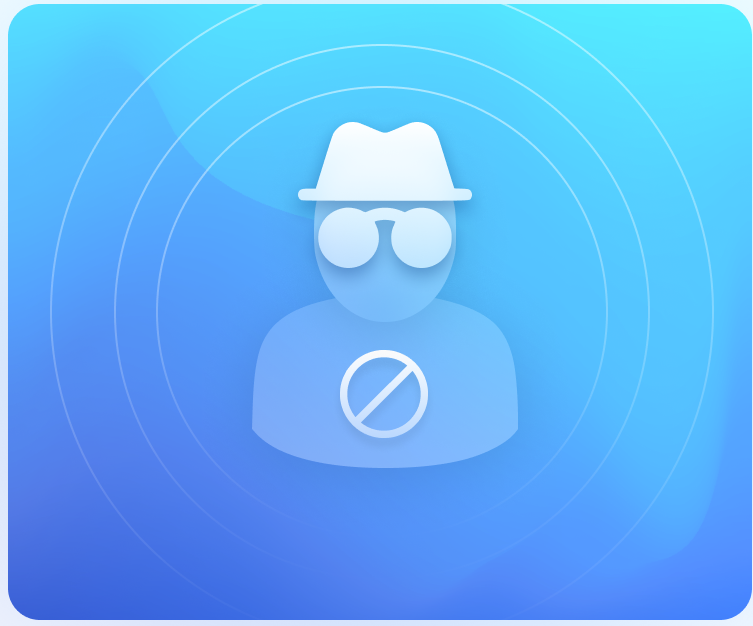
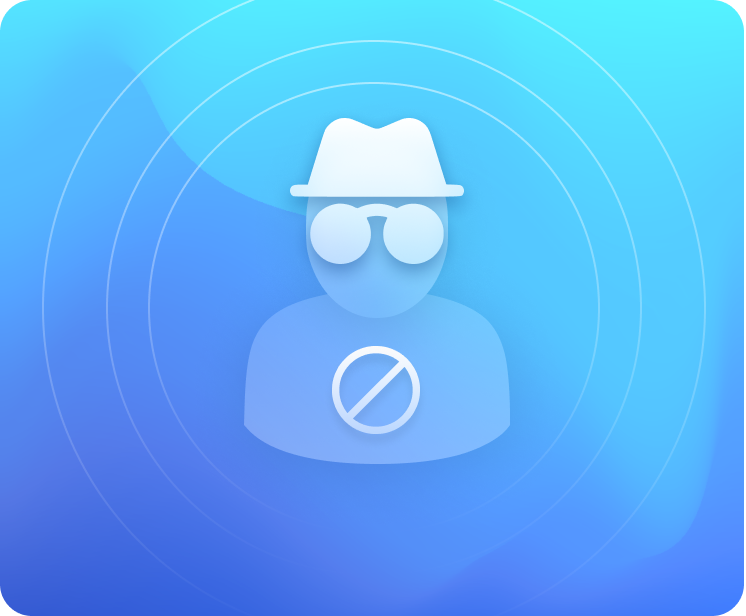
fix: change assets

diff --git a/app/components/feature-pages/feature-page-base.tsx b/app/components/feature-pages/feature-page-base.tsx
@@ -66,6 +66,10 @@ const renderSectionChild = (config: ChildType, index: number, pageConfig: Featur
                     spacingClass = universalStyles["justify-flex-start"];
                 }
 
+                if(config.spacing === "space-around"){
+                    spacingClass = universalStyles["justify-space-around"]
+                }
+
                 return (
                     <div 
                         className={`${styles["nested-child-container"]} ${universalStyles[getClassNameFromFlex(config.flex)]} ${spacingClass} ${config.rootClassNames?.join(" ") ?? ""}`}

diff --git a/app/pages/social-login/index.tsx b/app/pages/social-login/index.tsx
@@ -26,7 +26,7 @@ export default function SocialLoginPage() {
                                 {
                                     type: "nested",
                                     flex: "row",
-                                    spacing: "space-between",
+                                    spacing: "space-around",
                                     children: [
                                         {
                                             type: "title-subtitle-cta",

diff --git a/app/assets/images/feature-pages/social-login/index.ts b/app/assets/images/feature-pages/social-login/index.ts
@@ -1,7 +1,7 @@
-import Landing from "./social-login-landing.png"
-import ReduceFriction from './reduce-friction.png'
+import Landing from "./top-image.png"
+import ReduceFriction from './reduce-sign-up-friction.png'
 import EmailVerification from "./email-verification.png"
-import CustomProviders from "./custom-providers.png"
+import CustomProviders from "./built-in-custom-providers.png"
 
 export const SocialLogin = {
     Landing,

diff --git a/app/components/feature-pages/types.ts b/app/components/feature-pages/types.ts
@@ -109,7 +109,7 @@ export type TextCTAChildType = CommonChildProperties & {
 
 export type NestedChildType = CommonChildProperties & {
     type: "nested";
-    spacing?: "center" | "space-between" | "flex-start",
+    spacing?: "center" | "space-between" | "flex-start" | "space-around",
     children: ChildType[];
 }
 

diff --git a/app/styles/feature-pages/pages/social-login/main.module.css b/app/styles/feature-pages/pages/social-login/main.module.css
@@ -7,9 +7,8 @@
 }
 
 .landing-image-container {
-    margin-top: -152px;
-    margin-bottom: 180px;
-    width: 625px;
+    margin-top: -40px;
+    margin-bottom: 130px;
 }
 
 @media screen and (max-width: 1024px) {

diff --git a/app/styles/feature-pages/universal-styles.module.css b/app/styles/feature-pages/universal-styles.module.css
@@ -57,6 +57,10 @@
     justify-content: space-between;
 }
 
+.justify-space-around {
+    justify-content: space-around;
+}
+
 .landing-text-container {
     max-width: 600px;
 }
